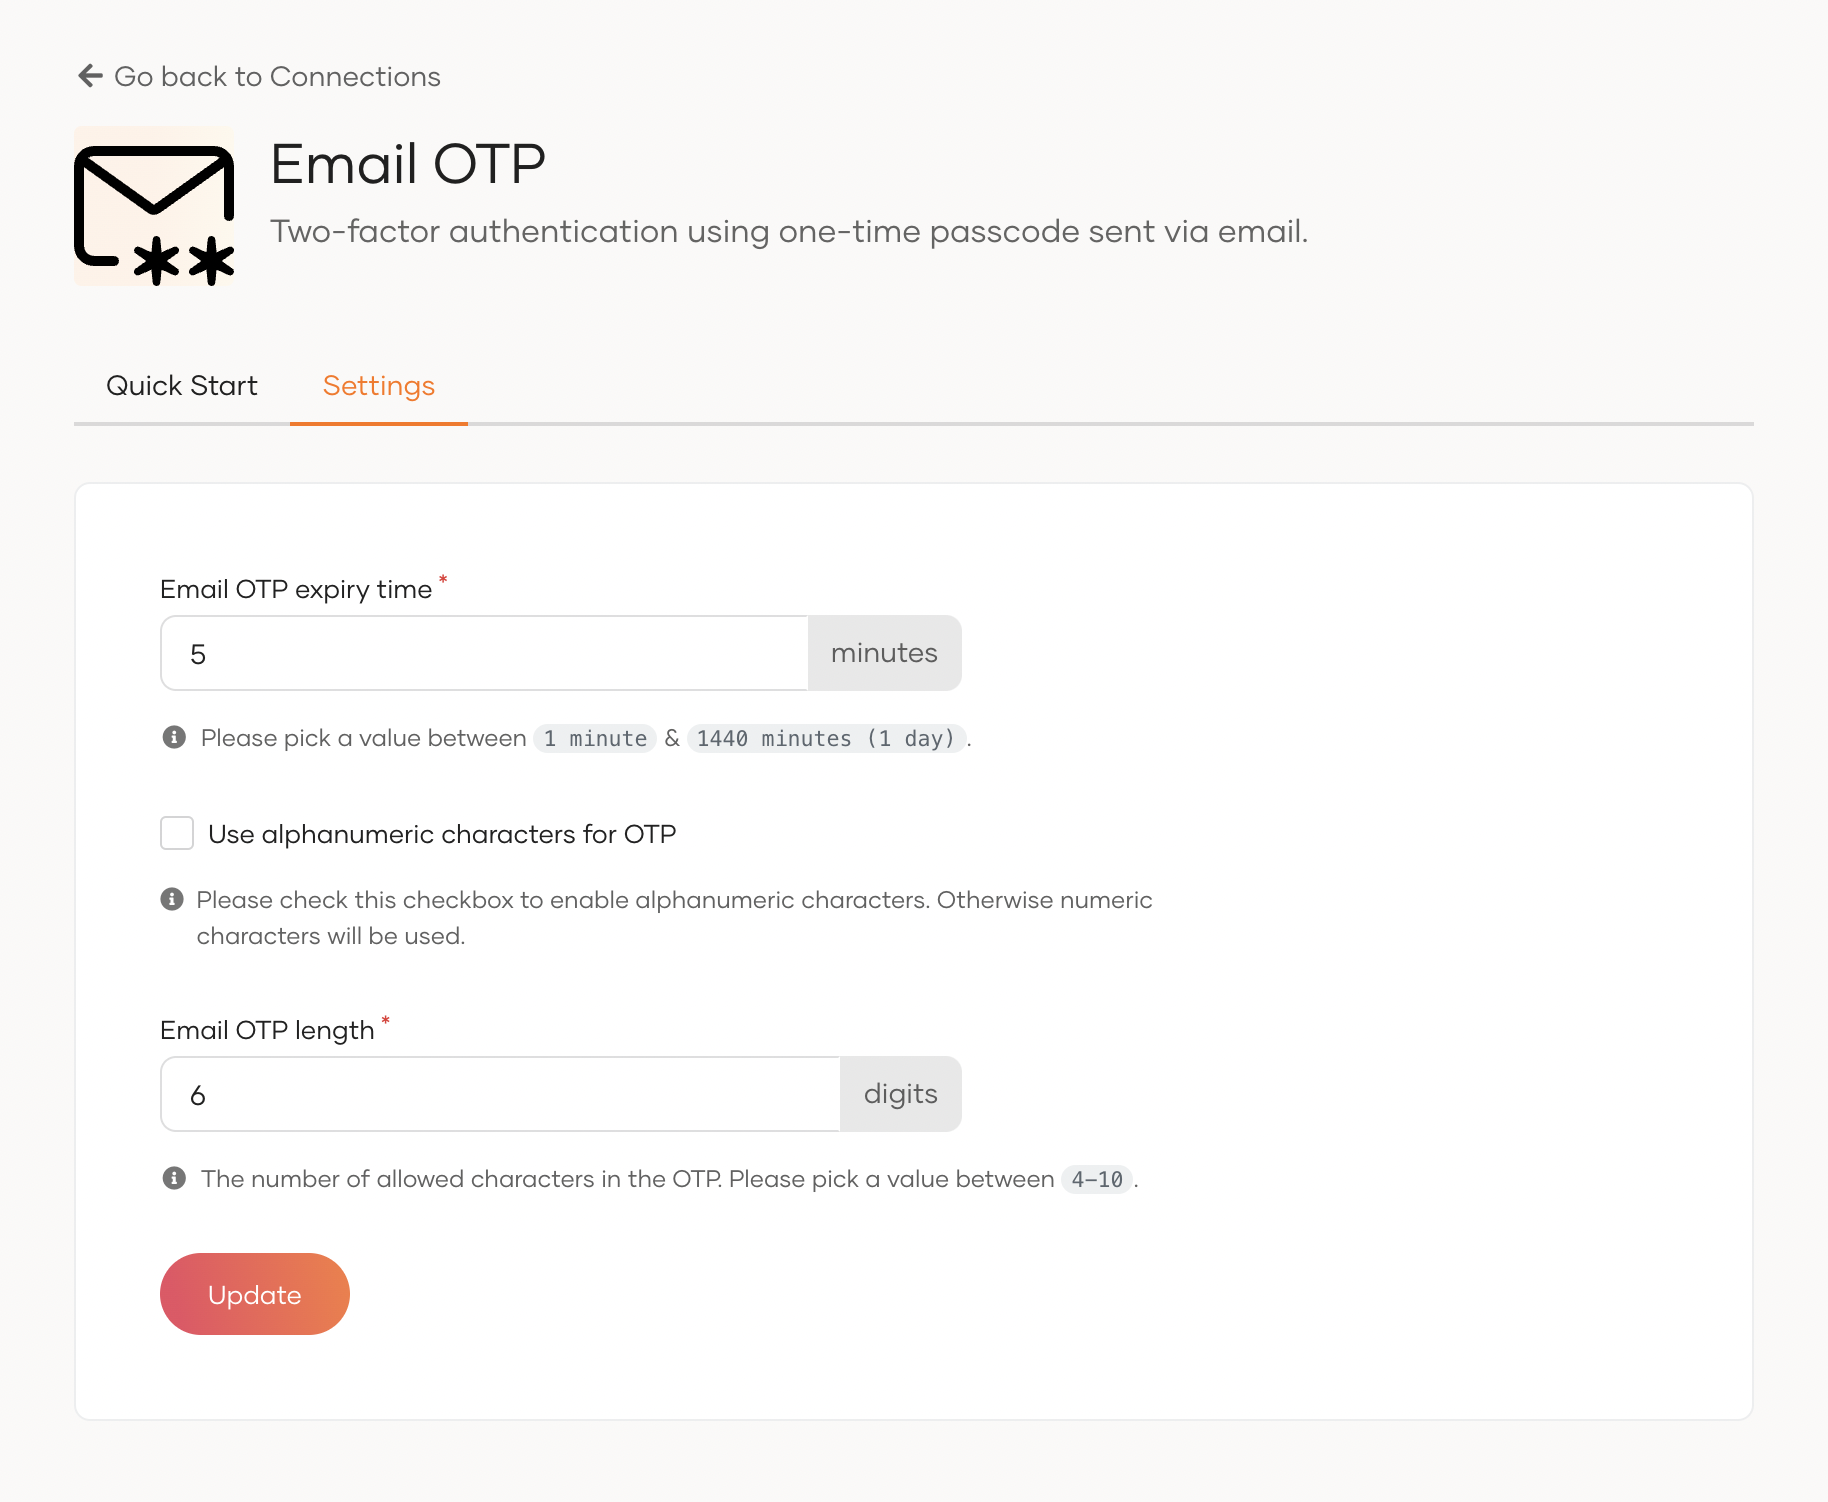
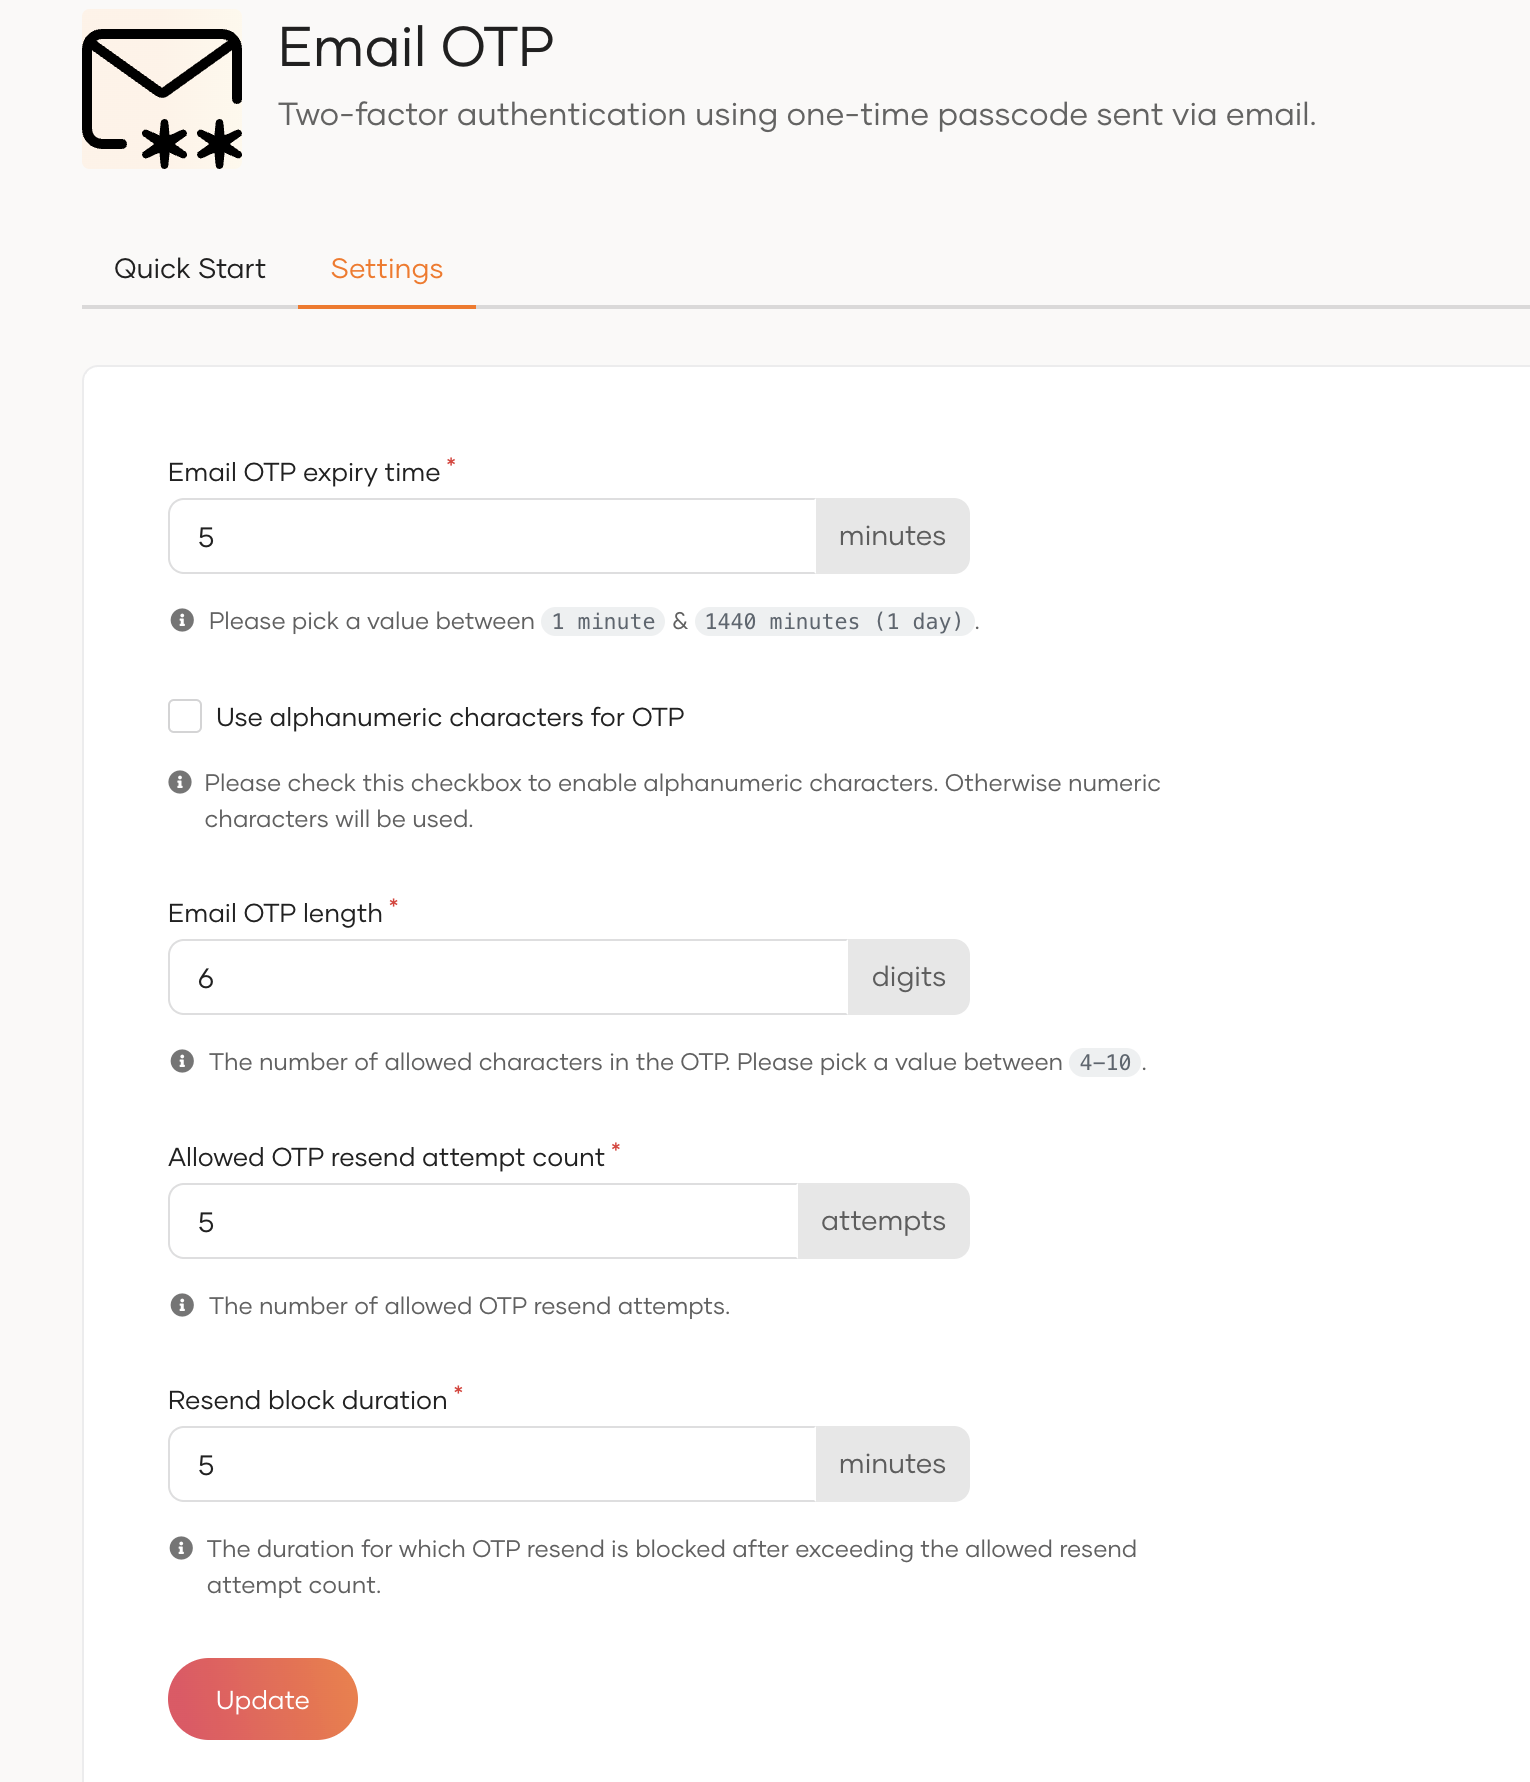
Add docs for email and sms rate limiting

diff --git a/en/includes/guides/authentication/mfa/add-emailotp-login.md b/en/includes/guides/authentication/mfa/add-emailotp-login.md
@@ -31,7 +31,7 @@ To update the default Email OTP settings:
 2. Update the following parameters in the **Settings** tab:
 
     ![Setup email OTP in {{ product_name }}]({{base_path}}/assets/img/guides/mfa/emailotp/setup-email-otp.png){: width="600" style="display: block; margin: 0; border: 0.3px solid lightgrey;"}
-
+    {% if product_name == "WSO2 Identity Server" and (is_version == "7.0.0" or is_version == "7.1.0" or is_version == "7.2.0") %}
     <table>
       <tr>
         <th>Field</th>
@@ -52,6 +52,36 @@ To update the default Email OTP settings:
         <td>Specifies the number of characters allowed in the OTP.</td>
       </tr>
     </table>
+    {% else %}
+    <table>
+      <tr>
+        <th>Field</th>
+        <th>Description</th>
+      </tr>
+      <tr>
+        <td>Email OTP expiry time</td>
+        <td>Specifies the expiry time of the OTP. The generated OTP will not be valid after this expiry time.</td>
+      </tr>
+      <tr>
+        <td>Use alphanumeric characters for OTP</td>
+        <td>
+            Specifies whether to use alphanumeric characters in the OTP. If not selected, the generated OTP contains only digits (0-9).
+        </td>
+      </tr>
+      <tr>
+        <td>Email OTP length</td>
+        <td>Specifies the number of characters allowed in the OTP.</td>
+      </tr>
+      <tr>
+        <td>Allowed OTP resend attempt count</td>
+        <td>Specifies the number of allowed OTP resend attempts.</td>
+      </tr>
+      <tr>
+        <td>Resend block duration</td>
+        <td>Specifies the time duration to block OTP resend requests after reaching the max allowed resend attempts.</td>
+      </tr>
+    </table>
+    {% endif %}
 3. Once you update the Email OTP settings, click **Update**.
 
 ## Enable Email OTP for an app

diff --git a/en/includes/guides/authentication/mfa/add-smsotp-login.md b/en/includes/guides/authentication/mfa/add-smsotp-login.md
@@ -72,6 +72,10 @@ To update the default SMS OTP settings:
            <td><code>Allowed OTP resend attempt count</code></td>
            <td>Specifies the number of allowed OTP resend attempts.</td>
          </tr>
+         <tr>
+           <td><code>Resend OTP block time</code></td>
+           <td>Specifies the time duration to block OTP resend requests after reaching the max allowed resend attempts.</td>
+         </tr>
     </table>
     {% endif %}
 
